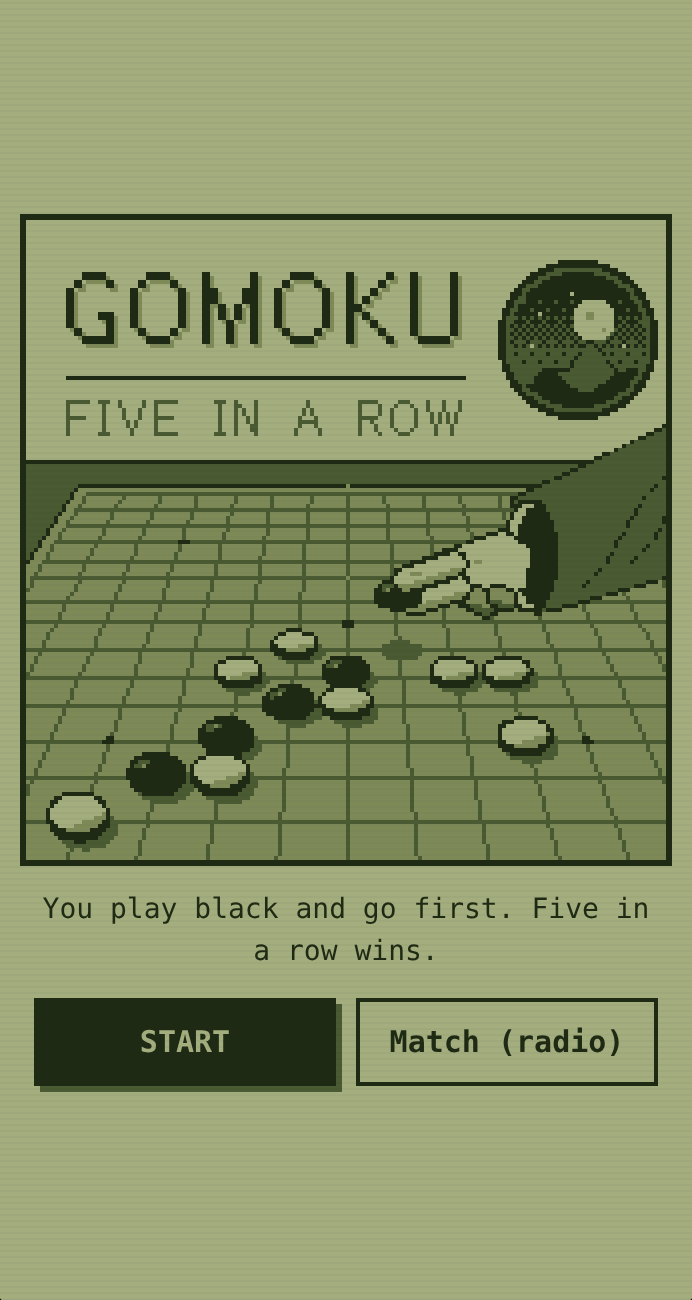
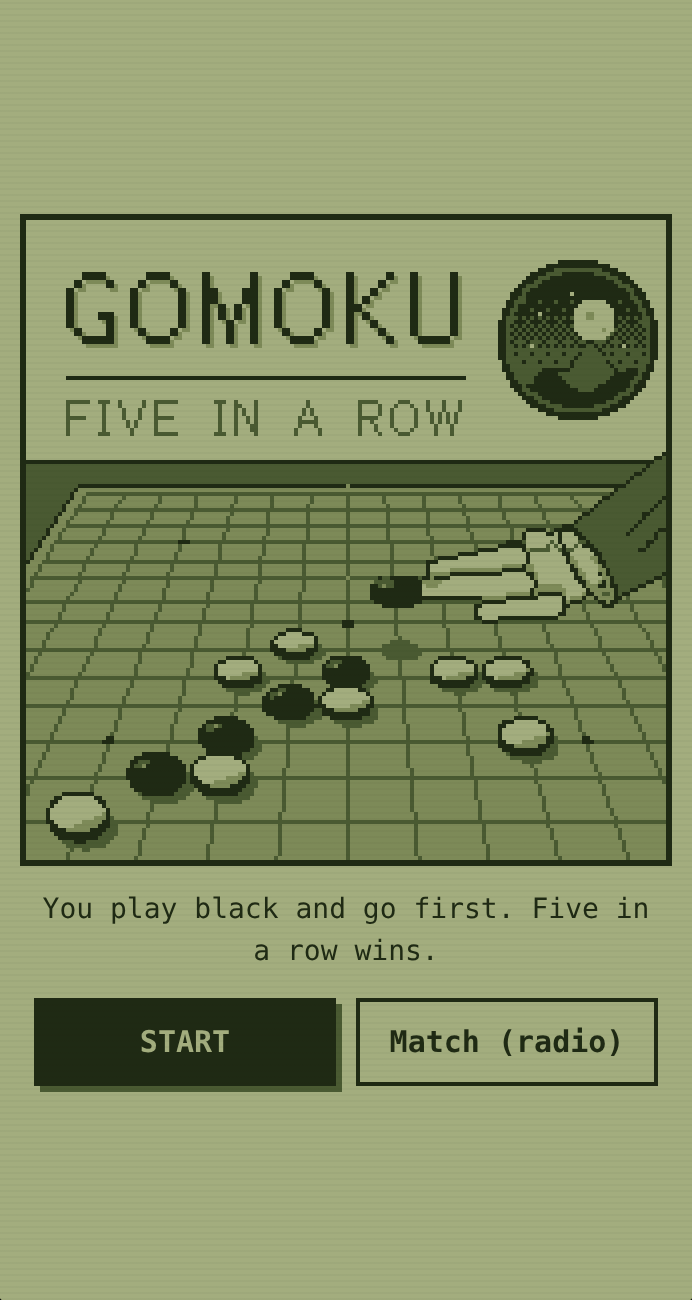
pages: pull_request e022c77cd449c563effaeb7ad17e9b9d7cfa7e2d

Changed region(s): [[0.5159, 0.3077, 0.9711, 0.4923]]

diff --git a/pr/273/registry/apps/gomoku/index.html b/pr/273/registry/apps/gomoku/index.html
@@ -149,65 +149,69 @@ var ART = (function () {
         c.ell(cx, cy, rx - 1, ry - 1, function (x, y, dx, dy) { return dx * 0.6 + dy > 0.55 ? 1 : 0; });
       }
     });
-    /* the hand: from the right, a sleeve, the winning stone held between two fingers above its point */
-    function cap(x0, y0, x1, y1, r, t) {
-      var minx = Math.floor(Math.min(x0, x1) - r - 1), maxx = Math.ceil(Math.max(x0, x1) + r + 1), miny = Math.floor(Math.min(y0, y1) - r - 1), maxy = Math.ceil(Math.max(y0, y1) + r + 1);
-      var dx = x1 - x0, dy = y1 - y0, L = dx * dx + dy * dy || 1;
-      for (var y = miny; y <= maxy; y++) for (var x = minx; x <= maxx; x++) {
-        var px = x + 0.5, py = y + 0.5, k = Math.max(0, Math.min(1, ((px - x0) * dx + (py - y0) * dy) / L));
-        var ex = px - (x0 + dx * k), ey = py - (y0 + dy * k), d = Math.sqrt(ex * ex + ey * ey);
-        if (d <= r) c.set(x, y, typeof t === "function" ? t(x, y, ex / r, ey / r, k) : t);
-      }
-    }
-    function limb(x0, y0, x1, y1, r, body, shade) {
-      cap(x0, y0, x1, y1, r + 1, 3);
-      cap(x0, y0, x1, y1, r, function (x, y, ex, ey) { return ey > 0.35 ? shade : body; });
-    }
-    var g5 = G(8, 8), hx = Math.round(g5[0]), hy = Math.round(g5[1]);
-    /* the stone's shadow on its point, where it is about to go */
-    var q5 = G(9, 8), r5 = G(8, 9), srx = (q5[0] - g5[0]) * 0.47, sry = (r5[1] - g5[1]) * 0.47;
-    c.ell(g5[0] + 1, g5[1] + 1, srx * 0.9, sry * 0.8, 2);
-    var sx = hx - 1, sy = hy - 13;
-    function poly(pts, t) {
-      var ys = pts.map(function (p) { return p[1]; }), y0 = Math.floor(Math.min.apply(null, ys)), y1 = Math.ceil(Math.max.apply(null, ys));
-      for (var y = y0; y <= y1; y++) {
-        var py = y + 0.5, xs = [];
-        for (var i = 0; i < pts.length; i++) { var a = pts[i], b = pts[(i + 1) % pts.length]; if ((a[1] <= py) !== (b[1] <= py)) xs.push(a[0] + (py - a[1]) / (b[1] - a[1]) * (b[0] - a[0])); }
-        xs.sort(function (m, n) { return m - n; });
-        for (var k = 0; k + 1 < xs.length; k += 2) for (var x = Math.ceil(xs[k] - 0.5); x <= Math.floor(xs[k + 1] - 0.5); x++) c.set(x, y, typeof t === "function" ? t(x, y) : t);
-      }
-    }
-    function grow(pts, d) { var cx = 0, cy = 0; pts.forEach(function (p) { cx += p[0]; cy += p[1]; }); cx /= pts.length; cy /= pts.length;
-      return pts.map(function (p) { var dx = p[0] - cx, dy = p[1] - cy, l = Math.hypot(dx, dy) || 1; return [p[0] + dx / l * d, p[1] + dy / l * d]; }); }
-    function shape(pts, body, shade, edge) { poly(grow(pts, 1.2), 3); poly(pts, function (x, y) { return y > edge(x) ? shade : body; }); }
-    var o = function (x, y) { return [sx + x, sy + y]; };
-    /* sleeve: a wide robe sleeve from the top right, its mouth open toward us with a paper lining */
-    var sleeve = [o(30, -24), o(W - sx + 4, -44), o(W - sx + 4, -6), o(44, 2), o(36, 4)];
-    shape(sleeve, 2, 2, function () { return 999; });
-    /* two folds of cloth, and the sleeve's mouth: dark inside, a paper rim of lining on its near edge */
-    [[0, 0], [12, -6]].forEach(function (f) {
-      var pts = []; for (var t = 0; t <= 14; t++) pts.push([sx + 47 + f[0] + t * 1.4, sy - 3 + f[1] - t * 1.9 + Math.sin(t * 0.45) * 1.5]);
-      for (var i = 0; i + 1 < pts.length; i++) c.line(pts[i][0], pts[i][1], pts[i + 1][0], pts[i + 1][1], 3);
-    });
-    c.ell(sx + 34, sy - 10, 7.2, 14.5, 3); c.ell(sx + 34, sy - 10, 6.2, 13.5, 0); c.ell(sx + 35.4, sy - 10, 5.2, 12.6, 3);
-    /* the back of the hand, knuckles toward the stone */
-    var back = [o(13, -11), o(27, -16), o(34, -12), o(33, -2), o(17, 2)];
-    shape(back, 0, 1, function (x) { return sy - 1 + (x - sx) * 0.02; });
-    /* ring and little finger curled under */
-    limb(sx + 21, sy + 1, sx + 23, sy + 2, 2.6, 1, 2);
-    limb(sx + 26, sy, sx + 28, sy + 1, 2.3, 1, 2);
-    /* middle finger, under the stone */
-    limb(sx + 16, sy - 2, sx + 5, sy + 1.5, 2.8, 0, 1);
-    /* the stone */
-    c.ell(sx + 1, sy, srx + 0.5, sry + 0.5, 3);
-    c.ell(sx + 1, sy - 1, srx, sry, 3);
-    c.ell(sx + 1 - srx * 0.3, sy - 1 - sry * 0.3, srx * 0.42, sry * 0.36, function (x, y, dx, dy) { return dx + dy < -0.2 ? 2 : 3; });
-    c.set(Math.round(sx + 1 - srx * 0.45), Math.round(sy - 1 - sry * 0.45), 1);
-    /* index finger over the stone */
-    limb(sx + 15, sy - 8, sx + 3, sy - 4, 2.8, 0, 1);
-    c.line(sx + 4, sy - 6, sx + 6, sy - 6, 1);
-    /* knuckle creases */
-    c.set(sx + 15, sy - 6, 1); c.set(sx + 16, sy - 1, 1); c.set(sx + 20, sy - 9, 1); c.set(sx + 21, sy - 9, 1);
+    /* the hand: from the top right, a sleeve and a hand holding the winning stone above its point. Its shadow is on
+       the point (8, 8); the stone is 13 rows above it */
+    var g5 = G(8, 8), q5 = G(9, 8), r5 = G(8, 9);
+    c.ell(g5[0] + 1, g5[1] + 1, (q5[0] - g5[0]) * 0.42, (r5[1] - g5[1]) * 0.38, 2);
+    var hx = Math.round(g5[0]) - 7, hy = Math.round(g5[1]) - 57;
+    /* the sprite (made from smooth shapes at 8x and reduced to the four tones; "." leaves the scene): the sleeve with
+       its cuff, the back of the hand with the curled ring and little finger, the middle finger under the stone, the
+       index finger over it with its nail, and the thumb tucked underneath */
+    var HAND = [
+      "..........................................................................",
+      "..........................................................................",
+      "..........................................................................",
+      "..........................................................................",
+      "..........................................................................",
+      "..........................................................................",
+      "..........................................................................",
+      "..........................................................................",
+      ".........................................................................3",
+      ".......................................................................332",
+      "......................................................................3222",
+      ".....................................................................32222",
+      "....................................................................322222",
+      "..................................................................33222222",
+      ".................................................................322222222",
+      "................................................................3222222222",
+      "..............................................................332222222222",
+      ".............................................................3222222222222",
+      "............................................................32222222222222",
+      "..........................................................3322222222222223",
+      ".........................................................32222222222222232",
+      "........................................................322222222222222322",
+      ".......................................................3222222222222223222",
+      ".....................................................332222222222222332222",
+      "....................................................3222222222222222322222",
+      "...................................................32222222222222223222222",
+      "................................................33322222222222222232222222",
+      ".......................................33333..3333332222222222222322222233",
+      "......................................300000330300033222222222223222222322",
+      "......................................300000000300003322222222222222222322",
+      ".....................................3200000020300002232222222222222233222",
+      "................................333333300000202030020333222222222222232222",
+      "...........................33333000000312222200232200003322222222223322222",
+      "......................3333300000000000030000000033000000332222222222222222",
+      ".................333330000000000000000030000000003100001132222222222222222",
+      "..............333000000000000000000000030000000003110000133222222222222222",
+      "..............300000000000000000011111311000000000310000013222222222222222",
+      "..............300000111111111111133333311000000000331000011322222222222222",
+      "..............311111333333333333300000033100000000031100031322222222222223",
+      "..3223333333.331333300000000000000000000310000000003310000113222222222233.",
+      ".2222233333331111100000000000000000000000300000000003310013132222222233...",
+      "332122333333301110000000000000000000000003111111000003111331332222233.....",
+      "3333333333333000000000000000000000000000311111111000003111111322233.......",
+      "33333333333330000000000000000000001111113133333310000133112213233.........",
+      "333333333333333333333333333311111133333333000000301113..3111133...........",
+      ".333333333333...............3333330000000000000031333....33133............",
+      "...33333333...............330000000000000000000033........333.............",
+      "..........................30000000000000000000003.........................",
+      "..........................30000000000000000000033.........................",
+      "..........................330000333333333333333...........................",
+      "............................3333..........................................",
+      ".........................................................................."
+    ];
+    HAND.forEach(function (row, j) { for (var i = 0; i < row.length; i++) if (row[i] !== ".") c.set(hx + i, hy + j, +row[i]); });
     /* the title on the wall: 2x pixels, ink, with a mid drop shadow; the line under it at 1x */
     var word = lang === "en" ? "GOMOKU" : "五子棋", sub = lang === "en" ? "FIVE IN A ROW" : "黑白连珠";
     var gap = lang === "en" ? 2 : 3;

diff --git a/pr/273/runtime/sw.js b/pr/273/runtime/sw.js
@@ -5,7 +5,7 @@
  * so a first start without network can still install them.
  * The cache is named after this worker's scope as well as its version: GitHub Pages PR previews (pr/<n>/runtime/)
  * share Cache Storage with the real site, and each worker only ever deletes its own scope's old caches. */
-var VERSION = "lopda-v1.5.0+f45dcd1";
+var VERSION = "lopda-v1.5.0+c4e2af7";
 var CACHE = VERSION + " " + self.registration.scope;
 var SHELL = ["./", "index.html", "lopda.css", "strings.js", "platform.js", "lunar.js", "usholidays.js", "inflate.js", "stardict.js", "wordlist.js", "bookparse.js", "textsel.js", "chip.js", "sensors.js", "speech.js", "lenses.js", "finder.js", "negative.js", "exif.js", "geotag.js", "develop.js", "notetext.js", "petsim.js", "petstate.js", "petsouv.js", "petart.js", "petplay.js", "zip.js", "backup.js", "ai.js", "ailines.js", "score-pages.js", "studio-song.js", "studio-synth.js", "studio-tape.js", "studio-edit.js", "studio-styles.js", "studio-score.js", "studio-tools.js", "studio-theory.js", "studio-critic.js", "studio-prompts.js", "studio-ai.js", "studio-harness.js", "wav.js", "midi.js", "stations.js", "vendor/qrcode-generator/qrcode.js", "qr.js", "appsaves.js", "homeorder.js", "acoustic.js", "acoustic-link.js", "acoustic-rx.js", "acoustic-session.js", "core.js", "link.js",
   "apps/notes.js", "apps/calendar.js", "apps/dict.js", "apps/reader.js", "apps/camera.js", "apps/darkroom.js", "apps/studio.js", "apps/cart.js", "apps/radio.js", "apps/tuner.js", "apps/pet.js", "apps/snap.js", "apps/store.js", "apps/scripts-templates.js", "apps/scripts.js", "apps/settings.js", "boot.js", "../sdk/pad-shim.js",

diff --git a/pr/273/runtime/core.js b/pr/273/runtime/core.js
@@ -247,7 +247,7 @@ document.addEventListener("visibilitychange",function(){
 });
 
 /* ---------- sound: tiny square-wave chips through Web Audio (the named sounds themselves are in chip.js) ---------- */
-var RUNTIME_VERSION="1.5.0+f45dcd1";   /* keep in step with VERSION in sw.js */
+var RUNTIME_VERSION="1.5.0+c4e2af7";   /* keep in step with VERSION in sw.js */
 /* One volume, five steps, 0 is off (decisions.md section 10). It sets the master gain and nothing else does.
    Under the master: `ui` for the runtime's own clicks and the built-ins' prompts, held at a fraction so they stay as
    quiet as they always were (step 2 gives them 0.11, their level before 0.12.0), and `app` for apps, music and the
